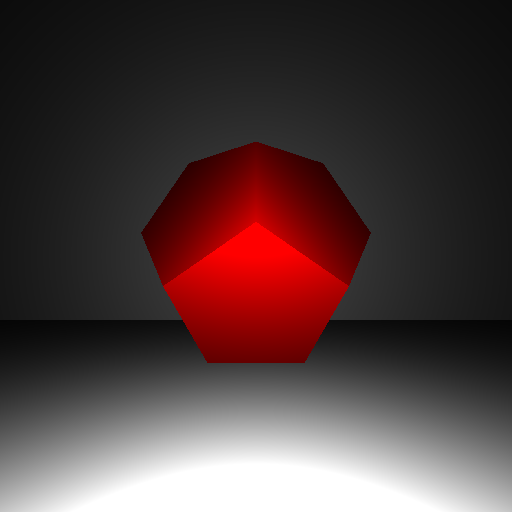
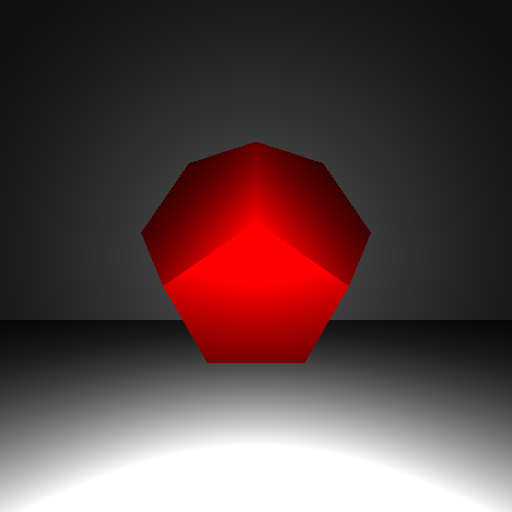
fixed filenames in basic scenes. added normalization by 1/pi to diffuse material. changed camera interface to take a single sample

Changed region(s): [[0.0, 0.7812, 1.0, 1.0], [0.3125, 0.3438, 0.6875, 0.6875]]

diff --git a/rt/src/rt/cameras/FixedCamera.java b/rt/src/rt/cameras/FixedCamera.java
@@ -66,17 +66,19 @@ public class FixedCamera implements Camera {
 	}
 
 	/**
-	 * Make a world space ray.
+	 * Make a world space ray. The method receives a sample that 
+	 * the camera uses to generate the ray. It uses the first two
+	 * sample dimensions to sample a location in the current 
+	 * pixel. The samples are assumed to be in the range [0,1].
 	 * 
 	 * @param i column index of pixel through which ray goes (0 = left boundary)
 	 * @param j row index of pixel through which ray goes (0 = bottom boundary)
-	 * @param k index of sample to use
-	 * @param samples array of samples
+	 * @param sample random sample that the camera can use to generate a ray   
 	 */
-	public Ray makeWorldSpaceRay(int i, int j, int k, float[][] samples) {
+	public Ray makeWorldSpaceRay(int i, int j, float[] sample) {
 		// Make point on image plane in viewport coordinates, that is range [0,width-1] x [0,height-1]
 		// The assumption is that pixel [i,j] is the square [i,i+1] x [j,j+1] in viewport coordinates
-		Vector4f d = new Vector4f((float)i+samples[k][0],(float)j+samples[k][1],-1.f,1.f);
+		Vector4f d = new Vector4f((float)i+sample[0],(float)j+sample[1],-1.f,1.f);
 		
 		// Transform it back to world coordinates
 		m.transform(d);

diff --git a/rt/src/rt/Camera.java b/rt/src/rt/Camera.java
@@ -8,14 +8,15 @@ public interface Camera {
 
 	/**
 	 * Given a ray in image space, make a ray in world space according 
-	 * to the camera specifications.
+	 * to the camera specifications. The method receives a sample that 
+	 * the camera can use to generate the ray. Typically the first two
+	 * sample dimensions are used to sample a location in the current 
+	 * pixel. The samples are assumed to be in the range [0,1].
 	 * 
 	 * @param i pixel column index
 	 * @param j pixel row index
-	 * @param k sample to be used to make the ray
-	 * @param samples array of n-dimensional samples. Use the first two dimensions 
-	 * 		to sample the image plane. The samples are assumed to be in the range [0,1].   
+	 * @param sample random sample that the camera can use to generate a ray   
 	 * @return the ray in world coordinates
 	 */
-	public Ray makeWorldSpaceRay(int i, int j, int k, float samples[][]);
+	public Ray makeWorldSpaceRay(int i, int j, float sample[]);
 }

diff --git a/rt/src/rt/Main.java b/rt/src/rt/Main.java
@@ -18,7 +18,7 @@ public class Main {
 	/** 
 	 * The scene to be rendered.
 	 */
-	public static Scene scene = new Dodecahedron();
+	public static Scene scene = new Box();
 
 	static LinkedList<RenderTask> queue;
 	static Counter tasksLeft;
@@ -86,7 +86,7 @@ public class Main {
 						for(int k=0; k<samples.length; k++)
 						{							
 							// Make ray
-							Ray r = task.scene.getCamera().makeWorldSpaceRay(i, j, k, samples);					
+							Ray r = task.scene.getCamera().makeWorldSpaceRay(i, j, samples[k]);					
 							
 							// Evaluate ray
 							Spectrum s = task.integrator.integrate(r);							

diff --git a/rt/src/rt/cameras/DummyCamera.java b/rt/src/rt/cameras/DummyCamera.java
@@ -24,9 +24,9 @@ public class DummyCamera implements Camera {
 	/**
 	 * Make a ray whose x- and y- coordinates in the direction vector are in the range [0,1] over the image plane.
 	 */
-	public Ray makeWorldSpaceRay(int i, int j, int k, float samples[][]) {
-		float x = ((float)i+samples[k][0]) / (float)width;
-		float y = ((float)j+samples[k][1]) / (float)height;
+	public Ray makeWorldSpaceRay(int i, int j, float sample[]) {
+		float x = ((float)i+sample[0]) / (float)width;
+		float y = ((float)j+sample[1]) / (float)height;
 		return new Ray(new Vector3f(0.f,0.f,0.f), new Vector3f(x, y, 1.f));
 	}
 

diff --git a/rt/src/rt/materials/Diffuse.java b/rt/src/rt/materials/Diffuse.java
@@ -14,9 +14,18 @@ public class Diffuse implements Material {
 
 	Spectrum kd;
 	
+	/**
+	 * Note that the parameter value {@param kd} is the diffuse reflectance,
+	 * which should be in the range [0,1], a value of 1 meaning all light
+	 * is reflected (diffusely), and none is absorbed. The diffuse BRDF
+	 * corresponding to {@param kd} is actually {@param kd}/pi.
+	 * @param kd
+	 */
 	public Diffuse(Spectrum kd)
 	{
 		this.kd = new Spectrum(kd);
+		// Normalize
+		this.kd.mult(1/(float)Math.PI);
 	}
 
 	/**

diff --git a/rt/src/rt/basicscenes/Dodecahedron.java b/rt/src/rt/basicscenes/Dodecahedron.java
@@ -45,7 +45,7 @@ public class Dodecahedron extends Scene {
 		root = new CSGNode(n1, new CSGPlane(new Vector3f(0.f, 0.f, 1.f), 1.f), CSGNode.OperationType.ADD); 
 		
 		// Light sources
-		LightSource pointLight = new PointLight(new Vector3f(0.f, 0.f, 3.f), new Spectrum(4.f, 4.f, 4.f));
+		LightSource pointLight = new PointLight(new Vector3f(0.f, 0.f, 3.f), new Spectrum(15.f, 15.f, 15.f));
 		lightList = new LightList();
 		lightList.add(pointLight);
 	}

diff --git a/rt/src/rt/basicscenes/Box.java b/rt/src/rt/basicscenes/Box.java
@@ -51,7 +51,7 @@ public class Box extends Scene {
 		root = new CSGNode(n1, n3, CSGNode.OperationType.ADD); 
 		
 		// Light sources
-		LightSource pointLight = new PointLight(new Vector3f(0.f, 0.f, 3.f), new Spectrum(3.f, 3.f, 3.f));
+		LightSource pointLight = new PointLight(new Vector3f(0.f, 0.f, 3.f), new Spectrum(10.f, 10.f, 10.f));
 		lightList = new LightList();
 		lightList.add(pointLight);
 	}

diff --git a/rt/src/rt/basicscenes/package-info.java b/rt/src/rt/basicscenes/package-info.java
@@ -1,4 +1,5 @@
 /**
- * Implementations of the abstract class {@link rt.Scene}.
+ * Implementations of the abstract class {@link rt.Scene}. The package contains
+ * basic scenes that can be rendered with the code skeleton.
  */
 package rt.basicscenes;
